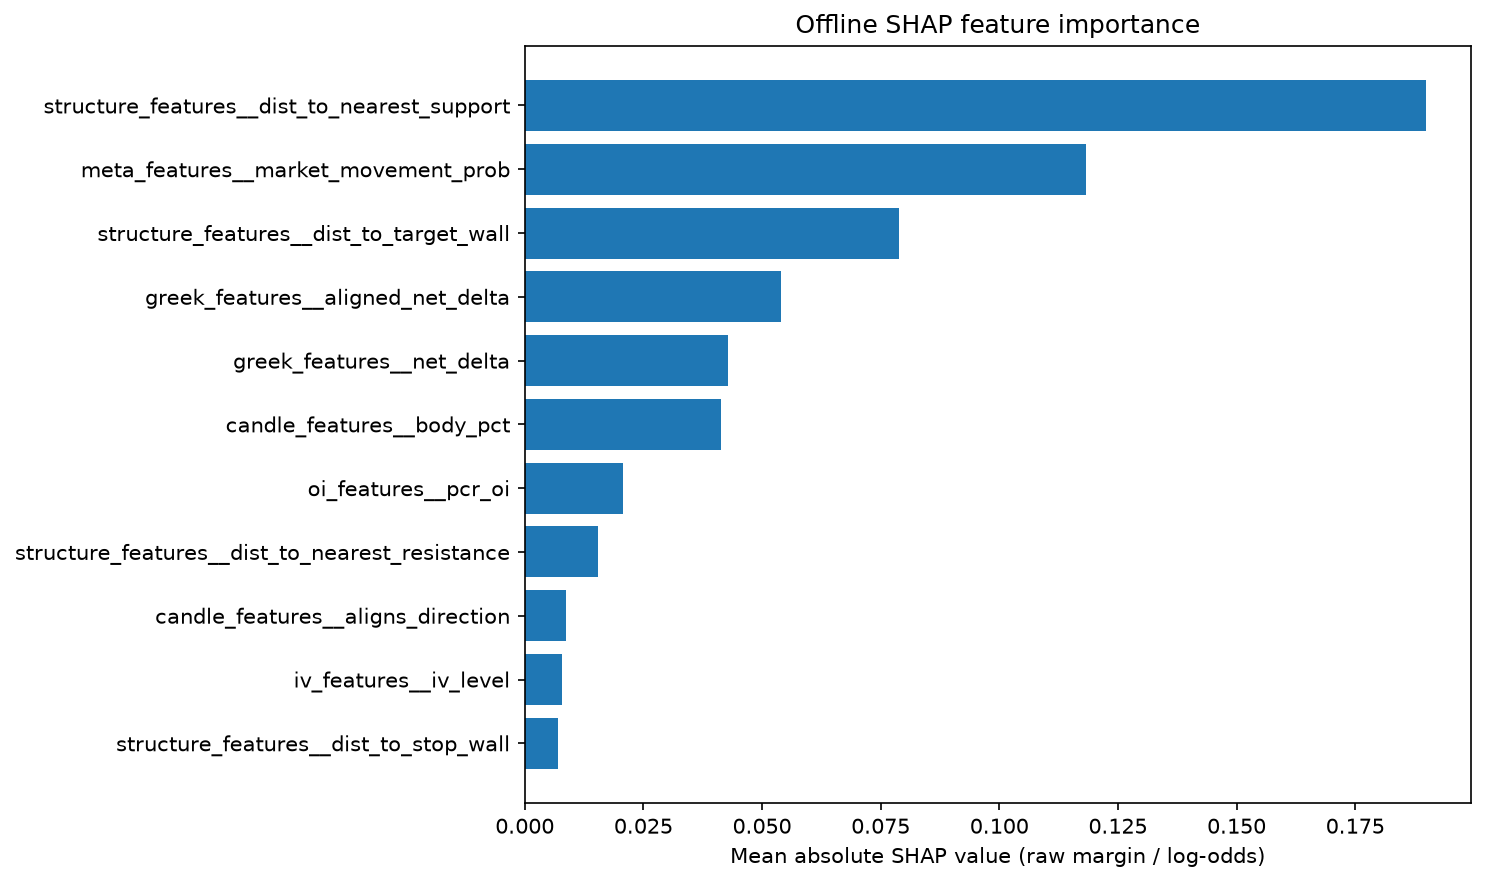
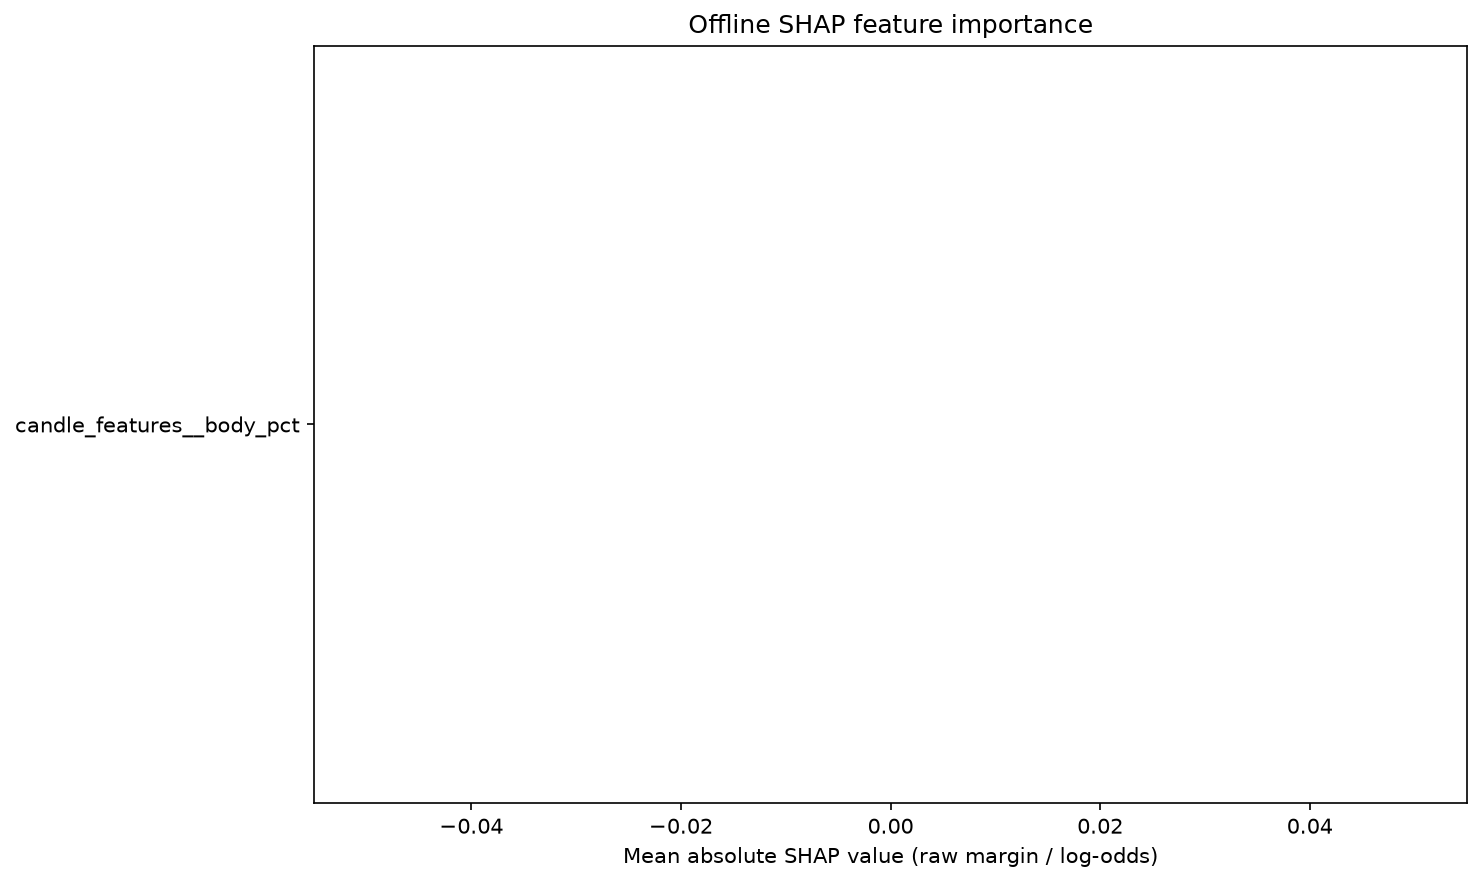
fix(TASK-20261024): pass direction in SignalConsumer and preserve prior rollback target on promotion

diff --git a/tests/unit/test_ml_prediction_improvements.py b/tests/unit/test_ml_prediction_improvements.py
@@ -267,3 +267,112 @@ def test_transfer_probability_fallback_is_causal():
     assert causal_series.iloc[3] == 0.90
 
 
+@pytest.mark.asyncio
+async def test_signal_consumer_passes_direction_to_predict_from_raw(monkeypatch):
+    """Verify SignalConsumer extracts direction from signal and passes it to predict_from_raw."""
+    import asyncio
+    from unittest.mock import MagicMock, AsyncMock, patch
+    from ml_signal.signal_consumer import SignalConsumer
+
+    consumer = SignalConsumer()
+    consumer._init_supabase = MagicMock()
+    consumer.predictor.load_model = MagicMock()
+    consumer.predictor.predict_from_raw = MagicMock(return_value={
+        "probability": 0.75,
+        "confidence_tier": "HIGH",
+    })
+    consumer.fetch_new_signals = AsyncMock(return_value=[{
+        "id": "sig-001",
+        "display_id": "1",
+        "setup_type": "TREND_CONTINUATION",
+        "direction": "BEARISH",
+        "market_context": {"open": 24000.0, "high": 24010.0, "low": 23990.0},
+        "spot_at_signal": 24000.0,
+    }])
+    consumer.log_prediction = AsyncMock(return_value=True)
+
+    with patch("ml_signal.signal_consumer.send_prediction_alert", new_callable=AsyncMock), \
+         patch("ml_signal.signal_consumer.asyncio.sleep", new=AsyncMock(side_effect=asyncio.CancelledError)):
+        try:
+            await consumer.run("https://dummy.supabase.co", "dummy_key")
+        except asyncio.CancelledError:
+            pass
+
+    assert consumer.predictor.predict_from_raw.called
+    call_kwargs = consumer.predictor.predict_from_raw.call_args.kwargs
+    assert call_kwargs.get("direction") == "BEARISH"
+
+
+def test_train_offline_rollback_target_retains_prior_production_model_on_promotion(tmp_path, monkeypatch):
+    """Verify rollback_target preserves previous production model even when candidate is promoted."""
+    import json
+    from unittest.mock import MagicMock
+    from ml_signal import train_offline
+
+    models_dir = tmp_path / "models"
+    models_dir.mkdir()
+    fake_v10 = models_dir / "v10.joblib"
+    fake_v10.write_bytes(b"prior_v10")
+    metrics_path = tmp_path / "metrics.json"
+
+    class PromotedTradeOutcomePipeline:
+        def __init__(self, *args, **kwargs):
+            pass
+        def prepare_dataset(self, rows, exit_timestamps=None):
+            return pd.DataFrame({
+                "timestamp": pd.date_range("2026-08-01", periods=10, freq="15min", tz="UTC"),
+                "resolution_timestamp": pd.date_range("2026-08-01 00:15:00", periods=10, freq="15min", tz="UTC"),
+                "label": [1, 0, 1, 0, 1, 0, 1, 0, 1, 0],
+                "candle_features__body_pct": [0.1] * 10,
+            })
+        def run_walk_forward(self, frame, market_snapshots_df=None, n_splits=5):
+            return MagicMock(), {
+                "validation_method": "walk_forward_purged",
+                "mean_auc": 0.85,
+                "brier_score": 0.15,
+                "evaluable_folds": 5,
+                "fold_results": [{"fold": i, "auc": 0.85, "brier": 0.15} for i in range(1, 6)],
+                "ci_95_lower": 0.70,
+                "ci_95_upper": 0.95,
+                "min_fold_auc": 0.75,
+                "leakage_guard_passed": True,
+            }
+
+    monkeypatch.setattr(train_offline, "_fetch_ml_collection", lambda client: [])
+    monkeypatch.setattr(train_offline, "_fetch_trade_exit_timestamps", lambda client: {})
+    monkeypatch.setattr(train_offline, "TradeOutcomePipeline", PromotedTradeOutcomePipeline)
+    monkeypatch.setattr(
+        "ml_signal.predictor.get_next_model_version_and_path",
+        lambda d: (str(models_dir / "v11.joblib"), "v11"),
+    )
+
+    # First call at startup returns v10, after promotion discover_latest_model returns v11
+    discovery_calls = []
+    def mock_discover(d=None):
+        if not discovery_calls:
+            discovery_calls.append("v10")
+            return (str(fake_v10), "v10")
+        discovery_calls.append("v11")
+        return (str(models_dir / "v11.joblib"), "v11")
+
+    monkeypatch.setattr("ml_signal.predictor.discover_latest_model", mock_discover)
+
+    train_offline.main([
+        "--pipeline", "trade_outcomes",
+        "--no-hybrid",
+        "--promote",
+        "--metrics-path", str(metrics_path),
+    ])
+
+    assert metrics_path.exists()
+    with open(metrics_path) as f:
+        summary = json.load(f)
+
+    assert summary["model_version"] == "v11"
+    assert summary["active_production_version"] == "v11"
+    assert summary["promoted"] is True
+    # Rollback target must point to prior production model v10, NOT the newly promoted v11
+    assert summary["shadow_evaluation"]["rollback_target"] == "v10"
+
+
+

diff --git a/ml_signal/train_offline.py b/ml_signal/train_offline.py
@@ -1476,6 +1476,7 @@ def main(argv=None) -> None:
     from ml_signal.predictor import get_next_model_version_and_path, discover_latest_model
     models_dir = os.path.join(repo, "ml_signal", "models")
     save_path, next_version = get_next_model_version_and_path(models_dir)
+    prior_active_path, prior_active_ver = discover_latest_model(models_dir)
     # Rejected runs reuse the version. Invalidate its prior explanations before
     # any pipeline/refit can fail, including failures before the report guard.
     _clear_versioned_shap_artifacts(repo, next_version)
@@ -1794,7 +1795,7 @@ def main(argv=None) -> None:
             "unfiltered_baseline_pnl": sharpe_metrics.get("sharpe_total_pnl_points"),
             "unfiltered_baseline_sharpe": sharpe_metrics.get("sharpe_annualized"),
             "unfiltered_baseline_win_rate": unfiltered_win_rate,
-            "rollback_target": discovered_active_ver,
+            "rollback_target": prior_active_ver,
         }
     }
     summary.update(final_metrics)

diff --git a/ml_signal/signal_consumer.py b/ml_signal/signal_consumer.py
@@ -148,6 +148,10 @@ class SignalConsumer:
                         "volume": features.get("volume", 0),
                     }
 
+                    signal_direction = signal.get("direction")
+                    if hasattr(signal_direction, "value"):
+                        signal_direction = signal_direction.value
+
                     result = self.predictor.predict_from_raw(
                         candle=candle,
                         volume_history=[],
@@ -165,6 +169,7 @@ class SignalConsumer:
                         pdl=None,
                         dte=None,
                         is_expiry=False,
+                        direction=signal_direction,
                     )
 
 

diff --git a/reports/qa/TASK-20261024_coverage-report.md b/reports/qa/TASK-20261024_coverage-report.md
@@ -16,8 +16,8 @@
 ---
 
 ## 2. Test Execution & Regression Diff
-- **Test Suite Execution:** 175 passed out of 175 tests (0 failed, 0 skipped).
-  - `tests/unit/test_ml_prediction_improvements.py`: 6 passed (Direction alignment, schema artifact filtering, shadow evaluation metadata, causal probability fallback, Stage 1 validation feature exclusions).
+- **Test Suite Execution:** 177 passed out of 177 tests (0 failed, 0 skipped).
+  - `tests/unit/test_ml_prediction_improvements.py`: 8 passed (Direction alignment, schema artifact filtering, shadow evaluation metadata, causal probability fallback, Stage 1 validation feature exclusions, standalone SignalConsumer direction propagation, promotion rollback target preservation).
   - `tests/unit/test_task155_ml_predictor.py`: 1 passed.
   - `tests/unit/test_task155_ml_training_refactor.py`: 48 passed.
   - `tests/unit/test_task183_ml_offline.py`: 55 passed.
@@ -33,13 +33,15 @@
    - Bullish setup: Resistance = Target wall, Support = Stop wall.
    - Bearish setup: Support = Target wall, Resistance = Stop wall.
    - Net delta inverted for bearish setup (`-net_delta`), preserving directional delta magnitude.
+   - Both in-process `main.py` and standalone `SignalConsumer` pass signal direction through to `predict_from_raw`.
 2. **Schema Artifact Isolation Across Pipelines:**
    - Verified schema flags (`greek__has_net_delta`, `structure__*`) are filtered out of both Stage 1 walk-forward validation and final refit.
 3. **Causal Transfer Probabilities:**
    - Unscored early trades in inner cross-validation strictly default to neutral 0.5 prior with forward-fill only, eliminating lookahead from `bfill()`.
-4. **Operational Model Protection:**
+4. **Operational Model Protection & Rollback Target:**
    - Verified production artifact `ml_signal/models/v10.joblib` remains the active production model.
    - Candidate model saved strictly as `v11_unpromoted.joblib` with rejection audit log (`reports/ml/v11_rejection_audit.json`).
+   - Prior production version is captured before candidate persistence so `rollback_target` accurately points to the prior deployed version if a candidate is promoted.
 5. **Offline Zero-Network Safety:**
    - `--cache-dir` flag validated for reproducible sandboxed offline training without Supabase network dependencies.
 

diff --git a/docs/TASK-20261024_ml_prediction_model_improvement.md b/docs/TASK-20261024_ml_prediction_model_improvement.md
@@ -14,6 +14,7 @@
   2. **Schema Artifact Leakage:** In previous runs, `greek__has_net_delta` appeared as the #1 feature by gain ($0.0441$). This was a database schema artifact (introduced 21 Aug 2026, 0 before and 1 after), not a predictive signal. Excluded all schema presence indicators (`structure__*`, `greek__*`) from model feature selection.
   3. **Stage 1 Negative Transfer:** Stage 1 (`MarketMovementPipeline`) predicts broad volatility expansion with AUC = $0.5903$ ($N = 9,591$ snapshots). However, broad market expansion correlates **negatively** with trade outcome ($r = -0.0939$; $r = -0.1237$ for Bullish) because volatility spikes whipsaw tight 10-25 pt stops. In-sample Stage 2 overfit this feature as the #1 SHAP contributor, causing out-of-sample degradation.
   4. **Causal Transfer Fallback & Stage 1 Feature Parity:** Replaced `bfill().ffill().fillna(0.5)` with strictly causal `ffill().fillna(0.5)` in `TradeOutcomePipeline` and `train_offline.py`, preventing future fold predictions from leaking backward into early trades. Synchronized `MarketMovementPipeline.run_walk_forward()` to exclude `structure__*` and `greek__*` schema artifacts across both cross-validation and final persistence.
+  5. **Standalone Consumer Direction & Rollback Target Safety:** Passed signal direction in standalone `SignalConsumer.predict_from_raw()`, ensuring event-triggered predictions evaluate direction-aligned features identically to `main.py`. Captured prior production version before candidate persistence in `train_offline.py` so `rollback_target` accurately preserves the previous production model.
 - **Trading Usefulness & Threshold Sweep:**
   - Unfiltered baseline strategy: $N = 151$ test trades, Win Rate = $43.0\%$, Total P&L = **$+1303.8$ points**, Profit Factor = $2.02$, Expectancy = $+8.63$ pts/trade.
   - Filtering top $50\%$ ML scores: $N = 76$ trades, Win Rate = $43.4\%$, Total P&L drops to **$+702.5$ points** (discards $+601.3$ points of profit!).
